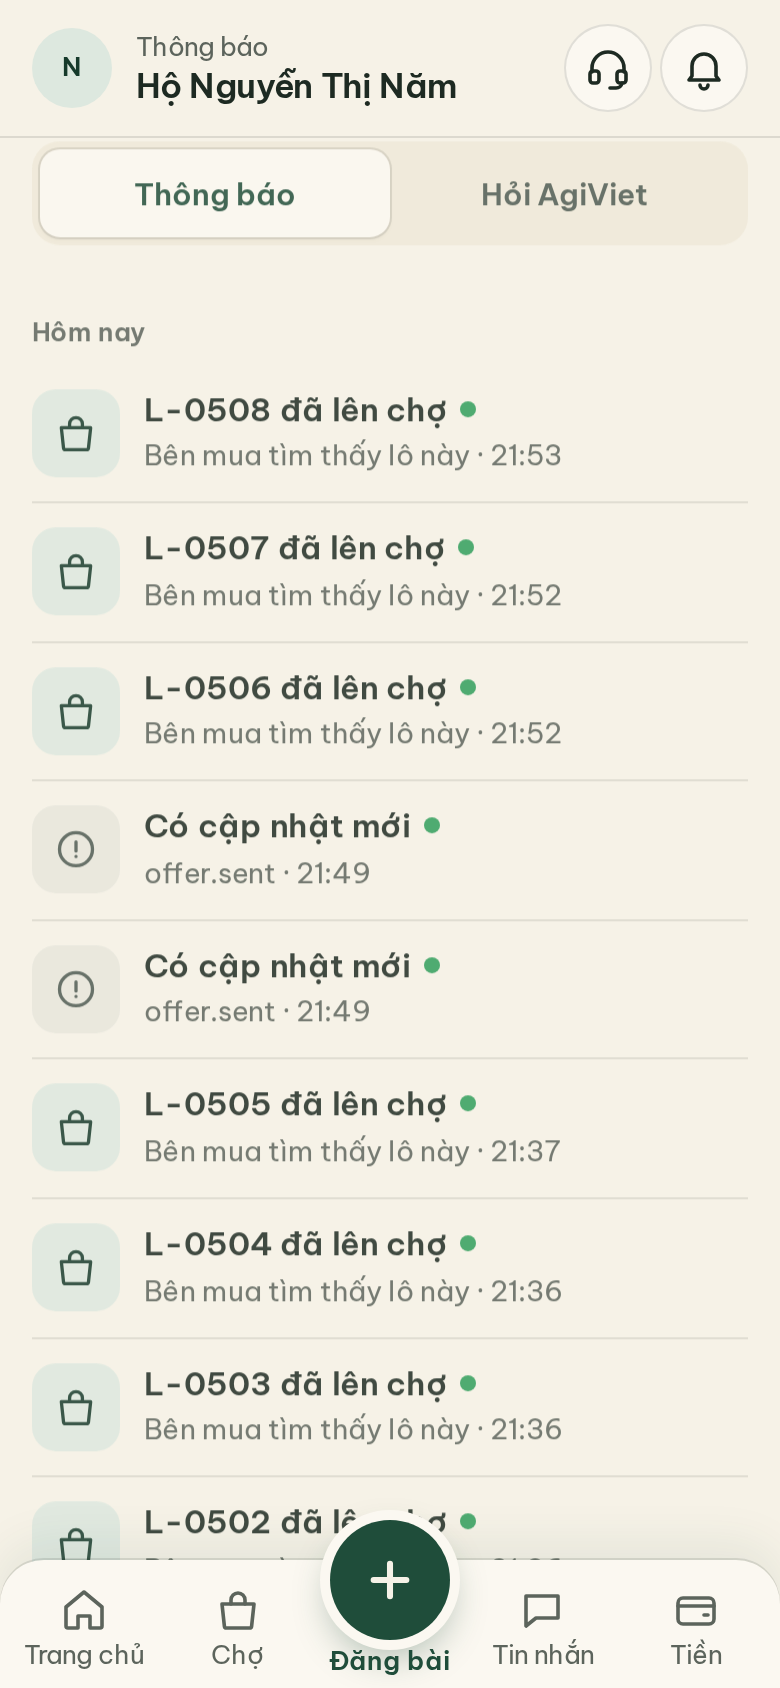
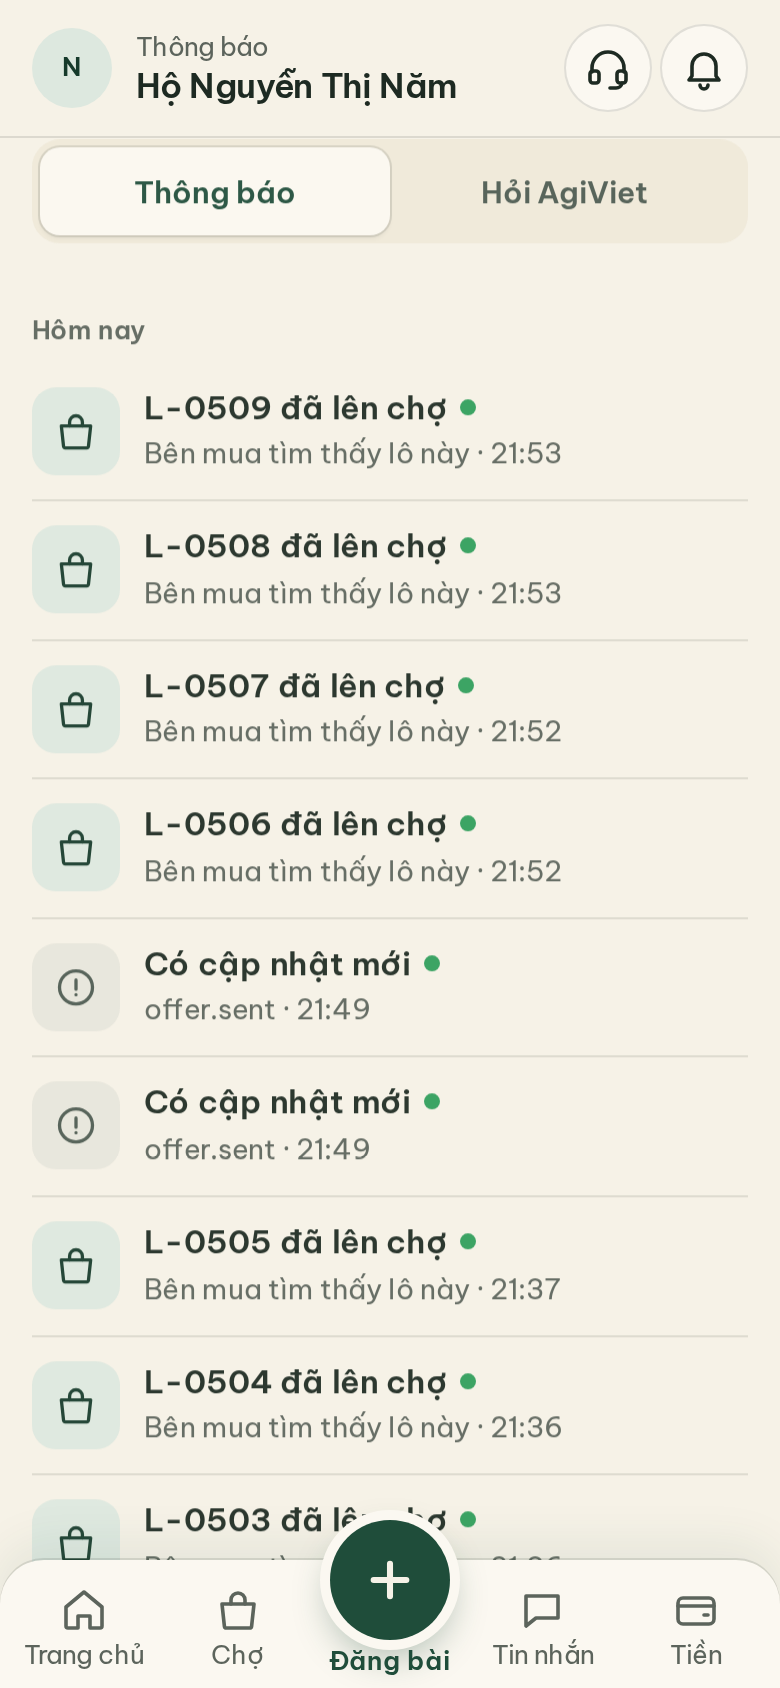
Trang chủ bán: một header duy nhất, thẻ Việc hôm nay gọn (xanh nhạt + trâu nhỏ) thay mảng xanh lớn; cuộn xuống thì nút Đăng bài teo nhỏ lọt vào thanh; E2E 13/13

diff --git a/frontend/thiet-ke/ban-hom-nay.html b/frontend/thiet-ke/ban-hom-nay.html
@@ -7,48 +7,31 @@
 <link rel="icon" href="/assets/logo.svg" type="image/svg+xml">
 <link rel="stylesheet" href="./so-vuon.css">
 <style>
-  .hero { position: relative; overflow: hidden; color: #f6f2e7; border-radius: 0 0 32px 32px; padding-bottom: 22px; margin-bottom: 16px;
-    background: radial-gradient(120% 90% at 85% 100%, #2c6a4f 0%, transparent 60%), linear-gradient(160deg, #1f4d3a 0%, #173a2c 100%); }
-  .hero .hoa-van { position: absolute; inset: 0; width: 100%; height: 100%; fill: none; stroke: rgba(246, 242, 231, 0.07); stroke-width: 1.5; }
-  .dau-hero { position: relative; background: none; border: 0; z-index: 1; }
-  .dau-hero .chao { color: rgba(246, 242, 231, 0.75); }
-  .dau-hero h1 { color: #f6f2e7; }
-  .dau-hero .anh-dai-dien { background: rgba(246, 242, 231, 0.16); color: #f6f2e7; }
-  .dau-hero .nut-tron { background: rgba(246, 242, 231, 0.12); border-color: rgba(246, 242, 231, 0.18); color: #f6f2e7; }
-  .dau-hero .cham-moi { background: #7ee0a3; box-shadow: 0 0 0 2px #1f4d3a; }
-  .hero-than { position: relative; z-index: 1; padding: 6px 16px 0; max-width: 64%; }
-  .chip-hang { display: flex; flex-wrap: wrap; gap: 6px; }
-  .chip-hero { font-size: 13px; padding: 5px 10px; border-radius: 999px; background: rgba(246, 242, 231, 0.12); color: rgba(246, 242, 231, 0.9); }
-  .hero h2 { font-size: 27px; line-height: 1.2; font-weight: 700; letter-spacing: -0.02em; margin-top: 12px; text-wrap: balance; }
-  .hero #cau-phu { margin-top: 8px; color: rgba(246, 242, 231, 0.82); }
-  .hero .nut-trong { margin-top: 14px; }
-  .hero #trau { position: absolute; right: -6px; bottom: -4px; width: 150px; height: 172px; z-index: 1; }
-  .dau-gon { position: fixed; top: 0; left: 50%; width: min(100%, 480px); transform: translate(-50%, -110%); z-index: 20; box-shadow: 0 4px 16px rgba(0,0,0,.06);
-    transition: transform 240ms cubic-bezier(0.23, 1, 0.32, 1); }
-  .dau-gon.hien { transform: translate(-50%, 0); }
+  /* Thẻ "Việc hôm nay": gọn, nền xanh nhạt, trâu nhỏ bên trái — không chiếm cả màn */
+  .viec-nay { display: grid; grid-template-columns: 76px 1fr; gap: 12px; align-items: center; padding: 12px 14px 12px 8px; border-radius: 18px;
+    background: var(--la-nhat); border: 1px solid rgba(31, 77, 58, 0.10); }
+  .viec-nay canvas { width: 76px; height: 88px; display: block; margin: -6px 0 -8px; }
+  .viec-nay .chip-hang { display: flex; flex-wrap: wrap; gap: 6px; font-size: 13px; color: var(--la-dam); }
+  .viec-nay .chip-hang span + span::before { content: "·"; margin-right: 6px; opacity: .6; }
+  .viec-nay h2 { font-size: 18px; line-height: 1.3; font-weight: 600; color: var(--muc); margin-top: 4px; text-wrap: balance; }
+  .viec-nay #cau-phu { font-size: 14px; color: var(--muc-phu); margin-top: 2px; }
+  .viec-nay .nut-trong { margin-top: 8px; min-height: 40px; padding: 0 14px; background: var(--la); color: var(--tren-la); }
 </style>
 </head>
 <body>
 <div class="trang">
-  <!-- Mảng xanh đầu trang: header + việc hôm nay + trâu -->
-  <header class="hero" id="hero">
-    <svg class="hoa-van" viewBox="0 0 400 260" preserveAspectRatio="none" aria-hidden="true">
-      <path d="M-10 70 C80 40 160 95 260 60 S380 40 420 55"/><path d="M-10 110 C90 80 170 135 270 100 S390 80 420 95"/>
-      <path d="M-10 150 C100 120 180 175 280 140 S395 120 420 135"/><path d="M-10 190 C110 160 190 215 290 180 S400 160 420 175"/>
-    </svg>
-    <div class="dau dau-hero" id="dau"></div>
-    <div class="hero-than" aria-live="polite">
-      <div class="chip-hang"><span class="chip-hero" id="ngay">&nbsp;</span><span class="chip-hero" id="chip-troi" hidden></span></div>
-      <h2 id="cau-chinh">Đang mở sổ…</h2>
-      <p id="cau-phu">&nbsp;</p>
-      <button class="nut-trong" type="button" id="nut-chinh" hidden></button>
-    </div>
-    <canvas id="trau" width="420" height="480" aria-hidden="true"></canvas>
-  </header>
-  <!-- Header gọn: hiện khi đã cuộn qua mảng xanh -->
-  <div class="dau dau-gon" id="dau-gon" aria-hidden="true"></div>
+  <header class="dau" id="dau"></header>
 
   <main class="noi" id="noi" aria-busy="true">
+    <section class="viec-nay" aria-live="polite">
+      <canvas id="trau" width="228" height="264" aria-hidden="true"></canvas>
+      <div>
+        <p class="chip-hang"><span id="ngay">&nbsp;</span><span id="chip-troi" hidden></span></p>
+        <h2 id="cau-chinh">Đang mở sổ…</h2>
+        <p id="cau-phu">&nbsp;</p>
+        <button class="nut-trong" type="button" id="nut-chinh" hidden></button>
+      </div>
+    </section>
 
     <section class="muc" aria-labelledby="t-hd">
       <h3 id="t-hd"><span>Hợp đồng đang làm</span><a href="#">Xem hết</a></h3>
@@ -84,9 +67,6 @@
 import { tien, tienDu, can, esc, so, phien, layDuLieu, ANH_SP, viecCho, CHANG, chiSoChang, LUOT, dangLam, giuThamSo, veDau, veTab, soThongBaoMoi } from "./chung.js";
 veTab("trang-chu");
 veDau(document.getElementById("dau"), { chao: "Chào bác", ten: "AgiViet", chuDau: "" });
-// Header gọn hiện khi cuộn qua mảng xanh
-new IntersectionObserver(([e]) => { const g = document.getElementById("dau-gon"); g.classList.toggle("hien", !e.isIntersecting); g.setAttribute("aria-hidden", String(e.isIntersecting)); },
-  { rootMargin: "-64px 0px 0px 0px" }).observe(document.getElementById("cau-chinh"));
 const $ = (id) => document.getElementById(id);
 try {
   rive.RuntimeLoader.setWasmUrl("/assets/vendor/rive/rive.wasm");
@@ -111,7 +91,7 @@ async function mo() {
   // Số thông báo chưa đọc lấy từ backend (lỗi tải thì không hiện chấm)
   const chuaDoc = await soThongBaoMoi(token);
   const dauBan = { chao: `Chào ${me.name.split(" ").at(-1)}`, ten: me.org.name, chuDau: me.name.split(" ").at(-1).charAt(0).toUpperCase(), soThongBao: chuaDoc };
-  veDau($("dau"), dauBan); veDau($("dau-gon"), dauBan);
+  veDau($("dau"), dauBan);
   $("ngay").textContent = new Date().toLocaleDateString("vi-VN", { weekday: "long", day: "numeric", month: "numeric" });
 
   const toiBac = don.filter((d) => d.hien_thi?.toi_luot?.phia === d.phia_cua_ban);
@@ -167,7 +147,7 @@ async function mo() {
       return `<div class="ngay-troi"><p class="thu">${esc(thu)}</p>${mua === null ? '<p class="phu" style="margin:14px 0">—</p>' : iconTroi(mua)}<p class="nhiet">${nhiet === null ? "—" : Math.round(nhiet) + "°"}</p>${mua === null ? "" : `<div class="mua" title="Khả năng mưa ${mua}%"><span style="width:${mua}%"></span></div>`}</div>`;
     }).join("");
     const n0 = troi.ngay[0], c0 = so(n0.nhiet_do_cao_c), m0 = so(n0.kha_nang_mua_phan_tram, 0, 100);
-    if (c0 !== null) { $("chip-troi").textContent = `${troi.tinh?.ten || ""} · ${Math.round(c0)}°${m0 !== null ? ` · mưa ${m0}%` : ""}`; $("chip-troi").hidden = false; }
+    if (c0 !== null) { $("chip-troi").textContent = `${Math.round(c0)}°${m0 !== null ? `, mưa ${m0}%` : ""}`; $("chip-troi").hidden = false; }
     const lk = troi.ngay[0].loi_khuyen?.[0];
     if (lk) { $("loi-khuyen").innerHTML = `<svg viewBox="0 0 24 24" fill="none" stroke="currentColor" stroke-width="2" stroke-linecap="round"><circle cx="12" cy="12" r="9"/><path d="M12 8v5M12 16h.01"/></svg><span>${esc(lk)}</span>`; $("loi-khuyen").hidden = false; }
   } else {

diff --git a/frontend/thiet-ke/so-vuon.css b/frontend/thiet-ke/so-vuon.css
@@ -122,8 +122,7 @@ p { margin: 0; text-wrap: pretty; }
 .tab { position: sticky; bottom: 0; z-index: 10; display: grid; grid-template-columns: repeat(5, 1fr); align-items: end; background: var(--giay-noi);
   border-radius: 22px 22px 0 0; box-shadow: 0 -1px 0 var(--ke), 0 -8px 24px rgba(31, 77, 58, 0.08); padding: 4px 4px env(safe-area-inset-bottom);
   transition: transform 260ms cubic-bezier(0.23, 1, 0.32, 1); }
-.tab.thu { transform: translateY(22px); }
-.tab.thu .fab { transform: translateY(10px) scale(0.9); }
+.tab.thu .fab { transform: translateY(8px) scale(0.7); box-shadow: 0 0 0 3px var(--giay-noi); }
 .tab a { min-height: 60px; display: flex; flex-direction: column; align-items: center; justify-content: center; gap: 3px; text-align: center; font-size: var(--c-ghi); font-weight: 500; color: var(--muc-nhat); text-decoration: none; line-height: 1.15; padding: 6px 2px; position: relative; -webkit-tap-highlight-color: transparent; }
 .tab .ic { position: relative; display: grid; place-items: center; }
 .tab .ic .cham-moi { top: -2px; right: -4px; box-shadow: 0 0 0 2px var(--giay); }
